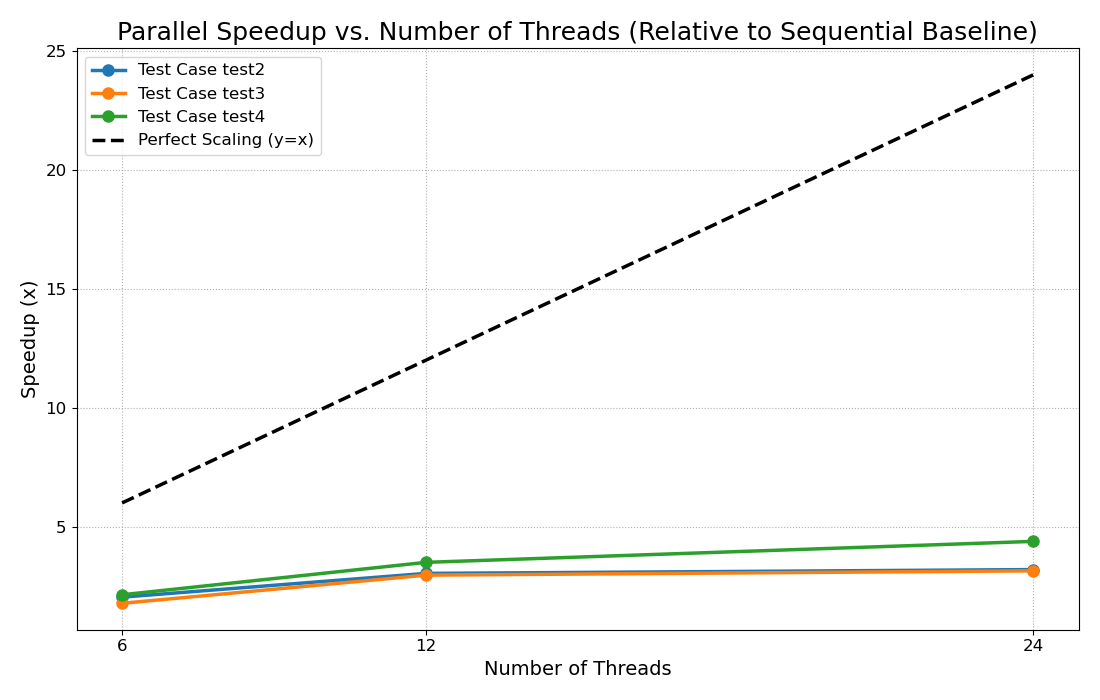
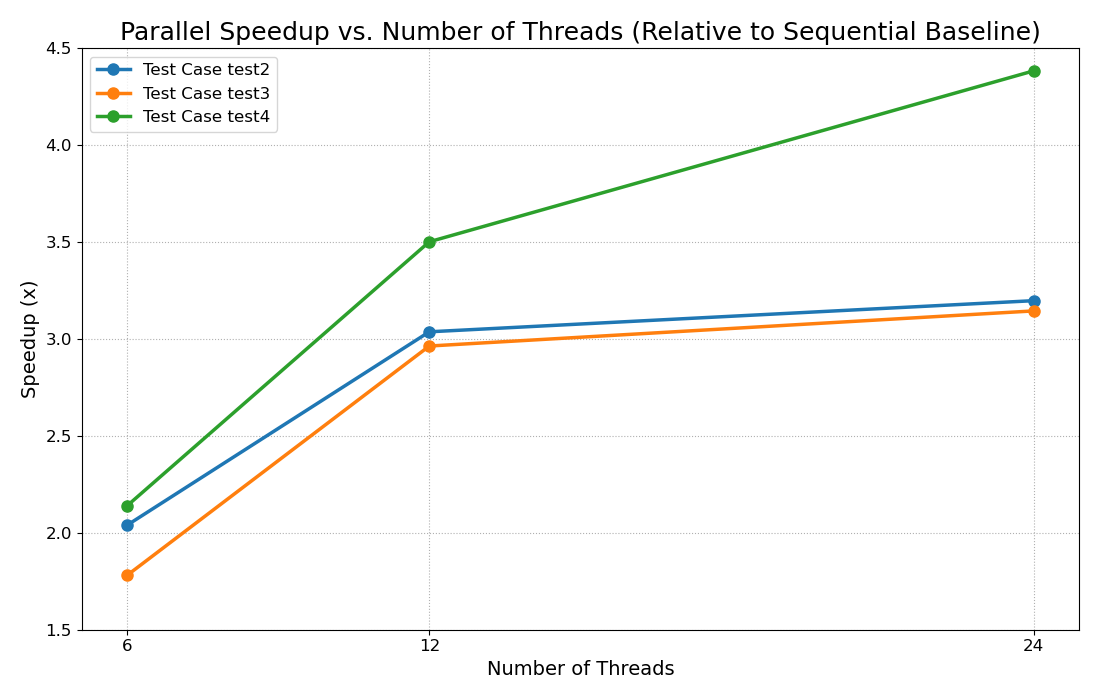
updated

diff --git a/5_OpenMP_Fire-Simulator/04_generate_plots.py b/5_OpenMP_Fire-Simulator/04_generate_plots.py
@@ -56,20 +56,30 @@ try:
         # Clean up label
         label = test_file.replace('test_files/', 'Test Case ')
         # Increase line width and marker size for visibility
+        
+        # --- REVERTED: Plotting Speedup_x ---
         plt.plot(file_data['NumThreads'], file_data['Speedup_x'], marker='o', label=label, markersize=8, linewidth=2.5)
 
-    # Plot perfect scaling line
-    if threads: 
-        plt.plot(threads, threads, 'k--', label='Perfect Scaling (y=x)', linewidth=2.5)
+    # --- MODIFICATION: Removed perfect scaling line ---
+    # if threads: 
+    #     plt.plot(threads, threads, 'k--', label='Perfect Scaling (y=x)', linewidth=2.5)
 
+    # --- REVERTED: Updated Title and Y-Label ---
     plt.title('Parallel Speedup vs. Number of Threads (Relative to Sequential Baseline)')
     plt.xlabel('Number of Threads')
     plt.ylabel('Speedup (x)')
+    
+    # --- MODIFICATION: Set custom Y-axis scale to show differences better ---
+    # Based on your data (min 1.78x, max 4.38x), this zooms in.
+    plt.ylim(1.5, 4.5) 
+    
     if threads: 
         plt.xticks(threads)
     plt.legend()
     plt.grid(True, linestyle=':')
     plt.tight_layout() # Adjust layout
+    
+    # --- REVERTED: Changed save file name ---
     plt.savefig('09_speedup_analysis.png')
     plt.close()
     
@@ -80,6 +90,7 @@ except Exception as e:
 
 
 # --- PLOT 2: BOTTLENECK ANALYSIS ---
+# (This plot remains unchanged)
 print("Generating 10_bottleneck_analysis.png...")
 
 try:
@@ -137,7 +148,7 @@ try:
         # Add total time labels on top of the bars
         totals = focal_times + heat_times + move_times + action_times
         for i, total in enumerate(totals):
-            # --- UPDATED: Added fontsize=12 ---
+            # --- Added fontsize=12 ---
             plt.text(i, total + 1, f'{total:.1f}s', ha='center', fontweight='bold', fontsize=12)
 
         plt.tight_layout()

diff --git a/5_OpenMP_Fire-Simulator/03_extinguishing_openmp.c b/5_OpenMP_Fire-Simulator/03_extinguishing_openmp.c
@@ -1,15 +1,3 @@
-/*
- * Simplified simulation of fire extinguishing (OpenMP Parallel Version - v7)
- *
- * This version fully implements the "Simple Atomic" strategy for the
- * Team Actions loop (4.4), as seen in the user's 'v_good' file.
- *
- * This replaces the "per-thread reduction" (v5) and "faulty merge" (v4)
- * strategies, which were causing cache-thrashing bottlenecks.
- *
- * (c) 2019 Arturo Gonzalez Escribano
- * (c) 2024 Parallelization by Gemini / A.I. User
- */
 #include <stdio.h>
 #include <stdlib.h>
 #include <string.h>
